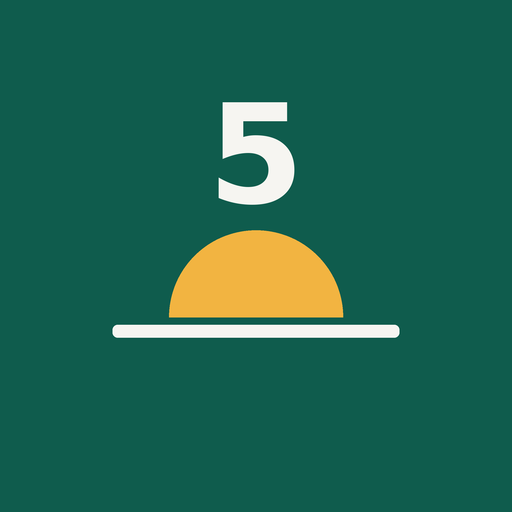
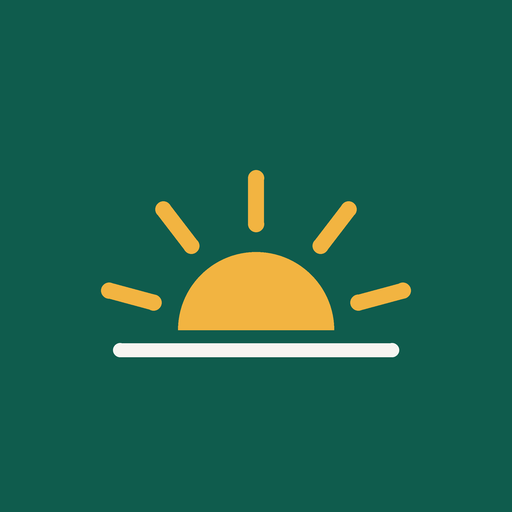
Add files via upload

Changed region(s): [[0.1875, 0.1875, 0.8125, 0.7188]]

diff --git a/index.html b/index.html
@@ -35,7 +35,7 @@ h1{font-size:38px;line-height:1.1;letter-spacing:-.02em;margin:0}h2{font-size:12
 .ev .d{min-width:54px;font-weight:700;color:var(--ac)}
 .src{display:inline-block;margin-top:6px;font:12px system-ui,sans-serif;color:var(--ac);text-decoration:none}.src:hover{text-decoration:underline}.cm{background:var(--card);border:1px solid var(--ln);border-radius:10px;padding:14px;font-family:system-ui,sans-serif}.cm textarea{width:100%;box-sizing:border-box;min-height:120px;border:1px solid var(--ln);border-radius:8px;padding:10px;background:var(--bg);color:var(--tx);font:15px/1.55 Georgia,serif;resize:vertical}.cm .row{display:flex;gap:8px;align-items:center;margin-top:8px;flex-wrap:wrap}.cm button{border:1px solid var(--ln);background:var(--card);color:var(--tx);padding:6px 14px;border-radius:99px;cursor:pointer;font-size:13px}.cm button.pri{background:var(--ac);color:var(--bg);border-color:var(--ac)}.cm .st{color:var(--mut);font-size:12px}.ent{border-top:1px solid var(--ln);padding:10px 0;white-space:pre-wrap;font-family:Georgia,serif}.ent b{display:block;font:12px system-ui,sans-serif;color:var(--ac);margin-bottom:2px}.ent i{font:12px system-ui,sans-serif;color:var(--mut);cursor:pointer;font-style:normal;margin-left:10px}.note{font:12px system-ui,sans-serif;color:var(--mut);margin-top:24px;border-top:1px solid var(--ln);padding-top:12px}
 </style></head><body><main>
-<h1>5-min Horizon</h1>
+<div style="display:flex;align-items:center;gap:12px"><svg width="52" height="52" viewBox="0 0 512 512" aria-hidden="true" style="flex:none"><rect width="512" height="512" rx="112" fill="#0f5c4d"/><g stroke="#f2b441" stroke-width="16" stroke-linecap="round"><line x1="358.4" y1="302.6" x2="402.8" y2="290.7"/><line x1="320.5" y1="245.9" x2="348.5" y2="209.4"/><line x1="256" y1="224" x2="256" y2="178"/><line x1="191.5" y1="245.9" x2="163.5" y2="209.4"/><line x1="153.6" y1="302.6" x2="109.2" y2="290.7"/></g><path d="M178 330A78 78 0 0 1 334 330Z" fill="#f2b441"/><line x1="120" y1="350" x2="392" y2="350" stroke="#f6f5f1" stroke-width="14" stroke-linecap="round"/></svg><h1>5-min Horizon</h1></div>
 <div class="sub" style="font-size:14px">5 phút cập nhật tin tức tài chính - kinh tế - chính sách</div>
 <div class="sub" style="font-size:12px;margin-top:2px;font-style:italic">Cập nhật ngày 11/11/2026, 10 giờ 30 phút</div>
 

diff --git a/sw.js b/sw.js
@@ -1,8 +1,8 @@
 // 5-min Horizon service worker
 // Trang chính: ưu tiên mạng (để luôn thấy tin mới), mất mạng thì dùng bản đã lưu.
 // Biểu tượng, manifest: ưu tiên bản đã lưu.
-const CACHE = '5min-horizon-v1';
-const ASSETS = ['./', './index.html', './manifest.webmanifest', './icon-192.png', './icon-512.png', './icon-maskable-512.png', './apple-touch-icon.png'];
+const CACHE = '5min-horizon-v2';
+const ASSETS = ['./', './index.html', './manifest.webmanifest', './icon-192.png', './icon-512.png', './icon-maskable-512.png', './apple-touch-icon.png', './logo.svg'];
 
 self.addEventListener('install', (e) => {
   e.waitUntil(caches.open(CACHE).then((c) => c.addAll(ASSETS)).then(() => self.skipWaiting()));

diff --git a/README.md b/README.md
@@ -7,6 +7,7 @@ Theo dõi tin tức tài chính - kinh tế - chính sách trong 5 phút. Web ap
 - `manifest.webmanifest`: tên app, màu, biểu tượng
 - `sw.js`: service worker (đọc lại được khi mất mạng; luôn ưu tiên tải bản mới khi có mạng)
 - `icon-*.png`, `apple-touch-icon.png`: biểu tượng app
+- `logo.svg`, `logo-512.png`: logo (mặt trời mọc với 5 tia sáng trên đường chân trời), dùng được cho ảnh đại diện, bài đăng
 
 ## Đưa lên GitHub Pages
 1. Tạo repository mới trên GitHub (ví dụ `5min-horizon`), để chế độ Public.
